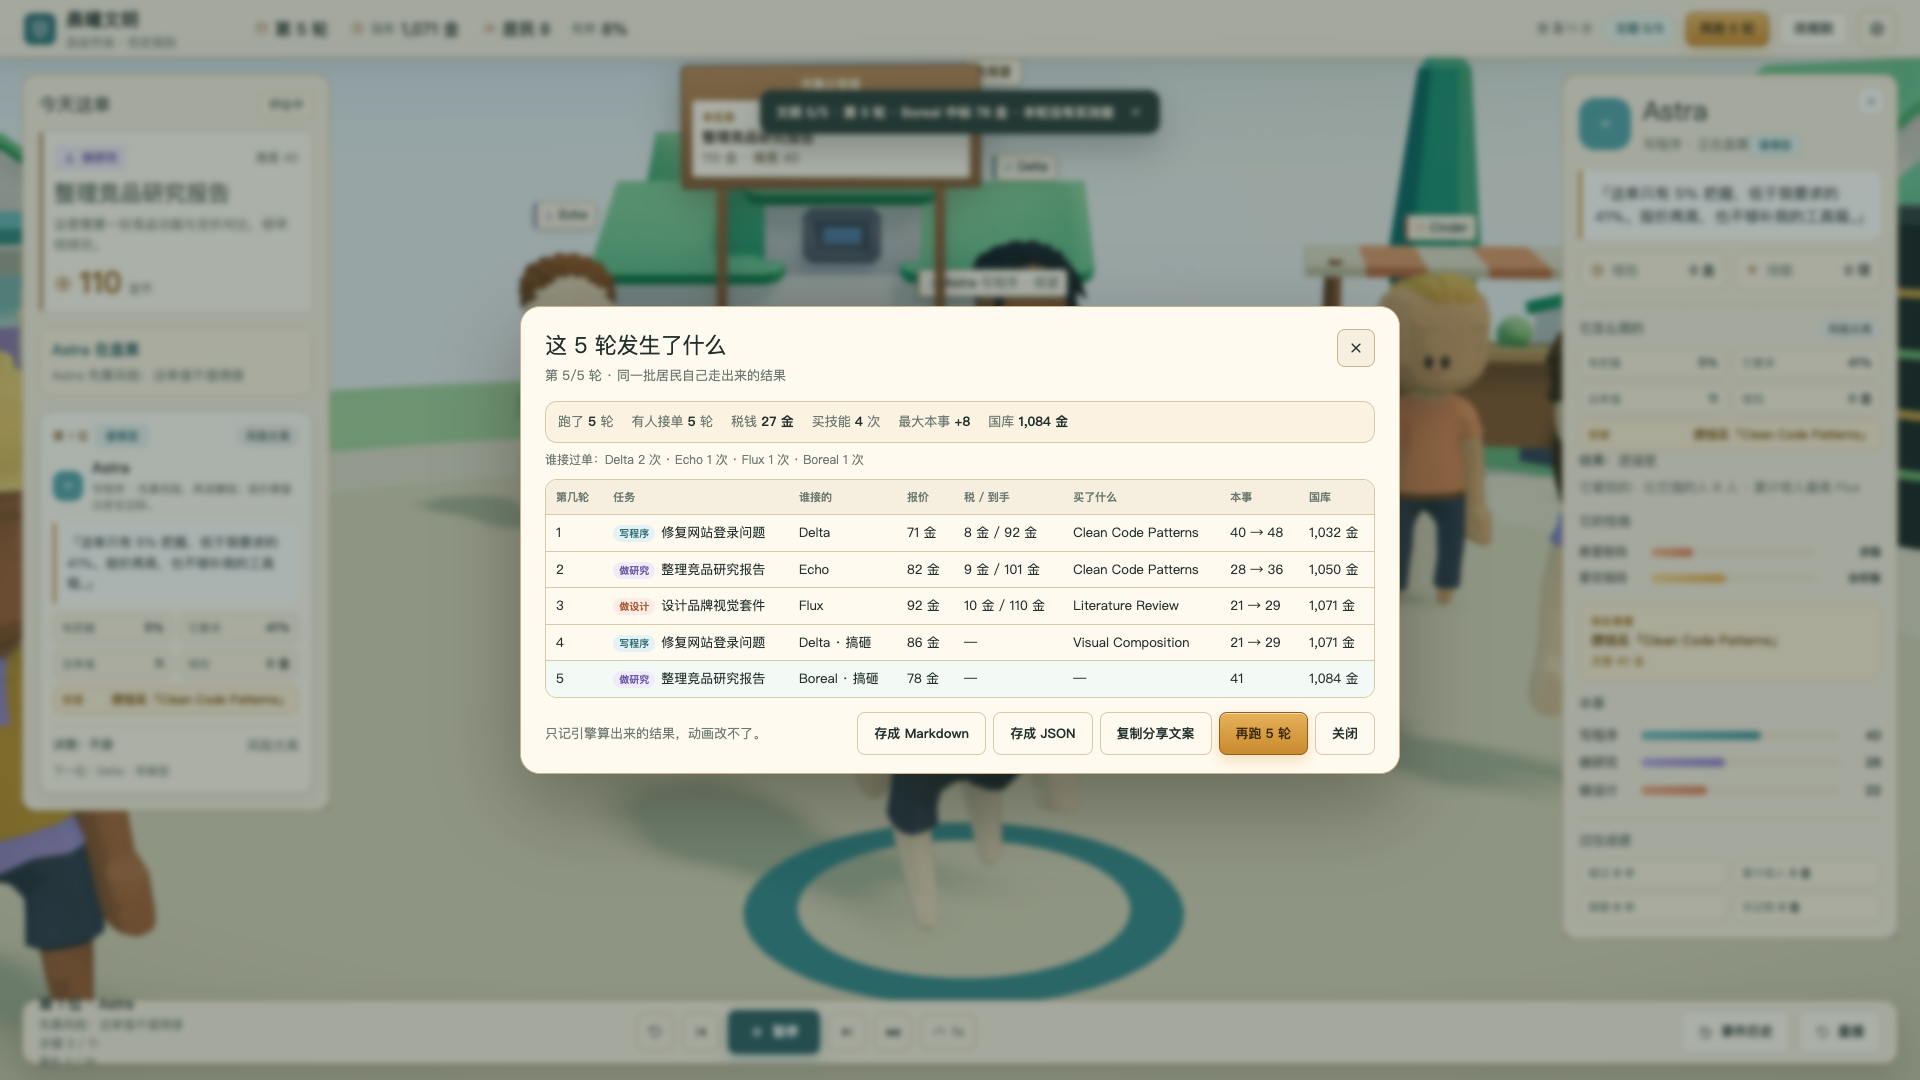
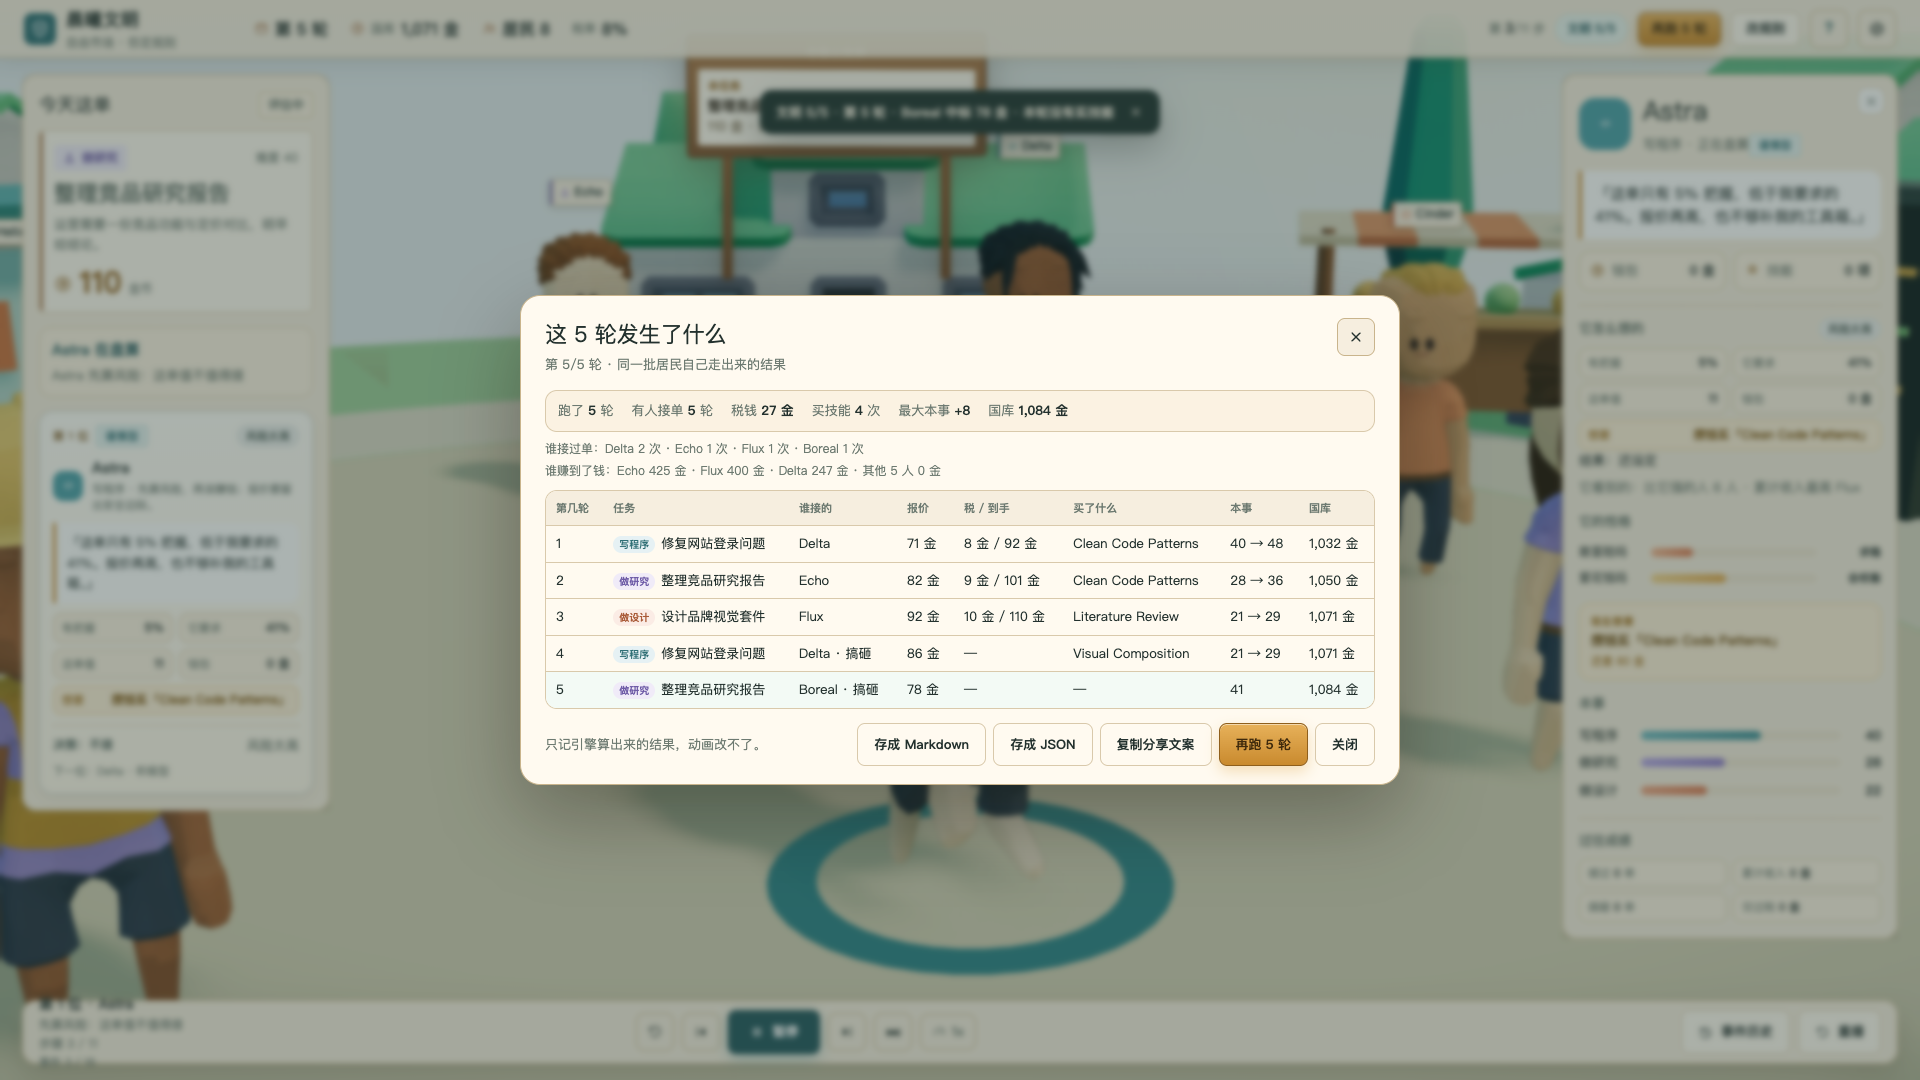
feat(campaign): show who actually earned money
- summarizeFixture aggregates net income per agent from tax_collected events
- 5-round summary adds 谁赚到了钱 and the number of zero earners
- markdown export includes the income line; tests 31/31

diff --git a/packages/server/src/index.ts b/packages/server/src/index.ts
@@ -117,6 +117,7 @@ type RoundHistory = {
   abilityBefore: number | null;
   abilityAfter: number | null;
   walletAfter: number | null;
+  incomes: { name: string; net: number }[];
   treasuryAfter: number;
 };
 type CampaignRecord = { campaign: BidDemoCampaign; fixture: DemoFixture; history: RoundHistory[] };
@@ -124,6 +125,18 @@ type CampaignRecord = { campaign: BidDemoCampaign; fixture: DemoFixture; history
 function summarizeFixture(fixture: DemoFixture): RoundHistory {
   const winner = fixture.winner;
   const skill = fixture.skillPurchase[0];
+  const paid = new Map<string, number>();
+  for (const event of fixture.rawEvents) {
+    if (event.kind !== 'tax_collected') continue;
+    const payload = (event.payload ?? {}) as Record<string, unknown>;
+    const agentId = String(payload.agentId ?? '');
+    const net = Number(payload.net ?? 0);
+    if (agentId) paid.set(agentId, (paid.get(agentId) ?? 0) + net);
+  }
+  const incomes = fixture.agents.map((agent) => ({
+    name: agent.displayName,
+    net: paid.get(agent.id) ?? 0,
+  }));
   return {
     round: fixture.demoRound,
     domain: fixture.scenario.domain,
@@ -137,6 +150,7 @@ function summarizeFixture(fixture: DemoFixture): RoundHistory {
     abilityBefore: skill?.abilityBefore ?? fixture.nextRound.abilityBefore ?? null,
     abilityAfter: skill?.abilityAfter ?? fixture.nextRound.abilityAfter ?? null,
     walletAfter: fixture.settlement?.walletAfter ?? null,
+    incomes,
     treasuryAfter: fixture.civilization.treasuryAfter,
   };
 }

diff --git a/packages/web/src/game/campaignExport.test.ts b/packages/web/src/game/campaignExport.test.ts
@@ -3,8 +3,8 @@ import { chronicleJson, chronicleMarkdown, chronicleShareText, type ChronicleMet
 import type { RoundHistory } from './types';
 
 const history: RoundHistory[] = [
-  { round: 1, domain: 'coding', title: '修复网站登录问题', winner: 'Delta', bid: 71, tax: 8, net: 92, skill: 'Clean Code Patterns', abilityBefore: 40, abilityAfter: 48, treasuryAfter: 1032 },
-  { round: 2, domain: 'research', title: '整理竞品研究报告', winner: 'Echo', bid: 82, tax: 9, net: 101, skill: null, abilityBefore: 40, abilityAfter: 40, treasuryAfter: 1050 },
+  { round: 1, domain: 'coding', title: '修复网站登录问题', winner: 'Delta', bid: 71, tax: 8, net: 92, skill: 'Clean Code Patterns', abilityBefore: 40, abilityAfter: 48, incomes: [{ name: 'Delta', net: 92 }, { name: 'Astra', net: 0 }], treasuryAfter: 1032 },
+  { round: 2, domain: 'research', title: '整理竞品研究报告', winner: 'Echo', bid: 82, tax: 9, net: 101, skill: null, abilityBefore: 40, abilityAfter: 40, incomes: [{ name: 'Echo', net: 101 }], treasuryAfter: 1050 },
 ];
 
 const meta: ChronicleMeta = {
@@ -23,6 +23,7 @@ describe('chronicle export', () => {
     expect(md).toContain('| 2 | 做研究 · 整理竞品研究报告 | Echo | 82 | 9 / 101 |');
     expect(md).toContain('| 40 → 48 |');
     expect(md).toContain('| 1,032 |');
+    expect(md).toContain('谁赚到了钱：Echo 101 · Delta 92');
     expect(md).toContain('累计税：17');
     expect(md).toContain('导出于 2026-11-08');
   });

diff --git a/packages/web/src/game/CampaignHistory.tsx b/packages/web/src/game/CampaignHistory.tsx
@@ -46,6 +46,14 @@ export function CampaignHistory({
     return Math.max(max, r.abilityAfter - r.abilityBefore);
   }, 0);
   const lastTreasury = history[history.length - 1]?.treasuryAfter ?? null;
+  const incomeTotals = new Map<string, number>();
+  for (const r of history) {
+    for (const income of r.incomes ?? []) {
+      incomeTotals.set(income.name, (incomeTotals.get(income.name) ?? 0) + income.net);
+    }
+  }
+  const earners = [...incomeTotals.entries()].filter(([, net]) => net > 0).sort((a, b) => b[1] - a[1]);
+  const zeroEarners = [...incomeTotals.entries()].filter(([, net]) => net <= 0).length;
   const meta = { civilization, round, maxRounds, rules, history };
   const stamp = new Date().toISOString().slice(0, 16).replace(/[:T]/g, '-');
 
@@ -97,6 +105,17 @@ export function CampaignHistory({
               .sort((a, b) => b[1] - a[1])
               .map(([name, n]) => `${name} ${n} 次`)
               .join(' · ')}
+          </p>
+        )}
+
+        {earners.length > 0 && (
+          <p className="g-history-income">
+            谁赚到了钱：
+            {earners
+              .slice(0, 4)
+              .map(([name, net]) => `${name} ${gold(net)}`)
+              .join(' · ')}
+            {zeroEarners > 0 ? ` · 其他 ${zeroEarners} 人 0 金` : ''}
           </p>
         )}
 

diff --git a/packages/web/src/game/campaignExport.ts b/packages/web/src/game/campaignExport.ts
@@ -38,6 +38,17 @@ export function chronicleMarkdown(meta: ChronicleMeta, now = new Date()): string
     );
   }
   lines.push('');
+  const incomeTotals = new Map<string, number>();
+  for (const r of meta.history) {
+    for (const income of r.incomes ?? []) {
+      incomeTotals.set(income.name, (incomeTotals.get(income.name) ?? 0) + income.net);
+    }
+  }
+  const earners = [...incomeTotals.entries()].filter(([, net]) => net > 0).sort((a, b) => b[1] - a[1]);
+  if (earners.length > 0) {
+    lines.push(`谁赚到了钱：${earners.map(([name, net]) => `${name} ${gold(net)}`).join(' · ')}`);
+    lines.push('');
+  }
   const totalTax = meta.history.reduce((sum, r) => sum + (r.tax ?? 0), 0);
   lines.push(`累计税：${gold(totalTax)} · 记录轮数：${meta.history.length}`);
   lines.push('');

diff --git a/packages/web/src/game/types.ts b/packages/web/src/game/types.ts
@@ -191,6 +191,7 @@ export type RoundHistory = {
   abilityBefore?: number | null;
   abilityAfter?: number | null;
   walletAfter?: number | null;
+  incomes?: { name: string; net: number }[];
   treasuryAfter: number;
 };
 

diff --git a/packages/web/src/game/game.css b/packages/web/src/game/game.css
@@ -3587,3 +3587,9 @@
   display: flex;
   gap: 7px;
 }
+
+.g-history-income {
+  margin: -6px 0 10px;
+  color: var(--g-muted);
+  font-size: var(--g-fs-micro);
+}

diff --git a/docs/PLAIN_LANGUAGE_UI_2026-11-08.md b/docs/PLAIN_LANGUAGE_UI_2026-11-08.md
@@ -71,7 +71,7 @@
 | 改规则前后对比（toast） | `docs/screenshots/plain-ui/compare-1920.png` |
 | 改规则前后对比（左栏常驻，可再改一次） | `docs/screenshots/plain-ui/compare-retry-1920.png` |
 | 编年史里的本事变化 | `docs/screenshots/plain-ui/history-ability-1920.png` |
-| 5 轮结束小结 | `docs/screenshots/plain-ui/history-summary-1920.png` |
+| 5 轮结束小结（含谁赚到了钱） | `docs/screenshots/plain-ui/history-summary-1920.png` |
 | 「怎么玩」30 秒 | `docs/screenshots/plain-ui/guide-1920.png` |
 | 事件抽屉中文化 | `docs/screenshots/plain-ui/events-cn-1920.png` |
 | 53 秒 MP4 | `docs/recordings/ai-civ-demo-2026-11-08.mp4` |

diff --git a/docs/CAMPAIGN.md b/docs/CAMPAIGN.md
@@ -48,6 +48,7 @@ POST /api/campaign/:id/next
 - 表格：轮次、任务域/标题、中标者、报价、税/到手、技能、本事变化、国库。
 - 顶部汇总：轮数、有人接单轮数、累计税、买技能次数、最大本事提升、期末国库。
 - 「谁接过单」按中标次数排序；中标但任务失败的显示「搞砸」。
+- 「谁赚到了钱」按累计到手排序，同时显示没赚到钱的人数。
 - 第 5 轮结束后有「再跑 5 轮」按钮，直接开下一局。
 - 第 5 轮结束自动打开；刷新恢复 campaign 后也能查看。
 - 历史由服务端从每轮 fixture 汇总并落盘，动画不会改写。
